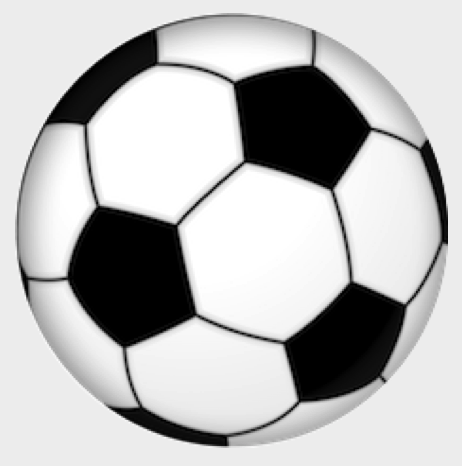
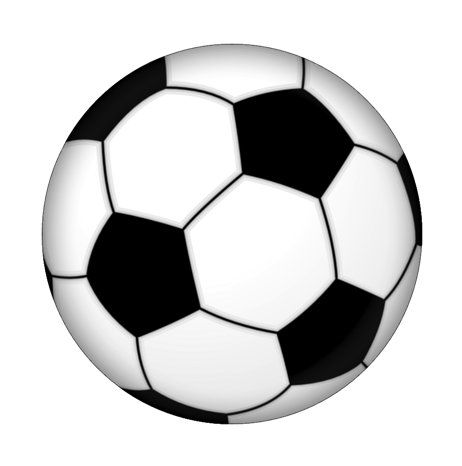
Added Klipfolio and fixed footymanager soccer ball

diff --git a/index.html b/index.html
@@ -48,7 +48,8 @@
 
                             <h2 class="header">about me</h2>
                             <hr class="light"></hr>
-                            <p>currently living in ontario, canada studying at the university of ottawa</p>
+                            <p>frontend developer</p>
+                            <p>studying at the university of ottawa</p>
                             <p>organizer of the deCODE Hackathon</p>
                             <p>member of the engineering faculty council</p>
                             <p>developing in java, web and mobile</p>
@@ -59,11 +60,20 @@
                         <h2 class="header">experience</h2>
                         <hr class="light"></hr>
                         <div id="experience-section">
+
+                            <div class="experience-three col-md-4">
+                                <h4>Klipfolio</h4>
+                                <img id="klipfolio-img" src="img/klipfolio.png" height="70"></img>
+                                <p><b><a href="http://www.klipfolio.com/">Frontend Developer (CO-OP)</a></b></p>
+                                <p>Klipfolio is a live business dashboarding startup, that allows their users to manipulate multiple forms of data to create visualizations that reflect key performance indicators (KPI).</p>
+                            </div>
+
+
                             <div class="exerience-one col-md-4">
                                 <h4>Telepin Software</h4>
                                 <img id="telepin-img" src="img/telepin-bg.png" height="170" ></img>
-                                <p><b><a href="http://www.telepin.com">CO-OP Developer</a></b></p>
-                                <p>Telepin Software is the leading provider of mobile infrastructure software, also my first co-op placement.</p>
+                                <p><b><a href="http://www.telepin.com">Mobile App Developer (CO-OP)</a></b></p>
+                                <p>Telepin Software is the leading provider of mobile infrastructure software, where I was asked to develop their first cross-platform mobile application.</p>
                             </div>
 
                             <div class="experience-two col-md-4">
@@ -71,13 +81,6 @@
                                 <img id="campustec-img" src="img/campustec.jpg" height="60" ></img>
                                 <p><b><a href="http://www.campustec.ca/">Computer Technician</a></b></p>
                                 <p>Campus Tec is the University of Ottawa's computer repair store, where I spent my first and second year fixing computers part-time.</p>
-                            </div>
-
-                            <div class="experience-three col-md-4">
-                                <h4>Esso</h4>
-                                <img id="esso-img" src="img/esso.png" height="170"></img>
-                                <p><b><a href="http://www.esso.ca/">Station Attendant</a></b></p>
-                                <p>Esso is a corporation owned gas station in Mississauga, Ontario - also where I acquired my first job.</p>
                             </div>
                         </div>
                     </div>
@@ -88,7 +91,7 @@
                         <div class="project-section">
                             <div class="project-one col-md-4">
                               <h4>deCODE Hackathon</h4>
-                              <img id="decode-img" src="img/decode.png" height="101"> </img>
+                              <img id="decode-img" src="img/deCODE.png" height="101"> </img>
                               <p><b><a href="http://www.legacycan.ca/decode">Event Organizer</a></b></p>
                               <p>deCODE is a Hackathon I am organizing held on April 1st-2nd in Ottawa, Ontario.</p>
                             </div>

diff --git a/css/style.css b/css/style.css
@@ -3,11 +3,12 @@
     height: 100%;
     text-align: center;
     border-right-style: solid;
-    border-right-width: 1px;
+    border-right-width: 3px;
+    border-right-color: #e7e7e7;
 }
 
 #right{
-    background-color: #F0F0F0;
+    background-color: #fff;
     height:100%;
     overflow-y: auto;
     margin:0 !important;
@@ -58,8 +59,9 @@
   margin-top:50px;
   margin-bottom:72px;
 }
-#esso-img{
-  margin-bottom:12px;
+#klipfolio-img{
+    margin-top: 50px;
+    margin-bottom: 64px;
 }
 
 .light{
@@ -84,6 +86,7 @@
 .info-side{
     position: relative;
     top: 35%;
+    width: 201px;
 }
 .info-page{
     overflow-x: auto;
@@ -102,6 +105,7 @@ html, body{
         border-bottom-style: solid;
         border-bottom-width: 1px;
         border-right-width: 0;
+        border-right-color: #e7e7e7;
     }
     #right{
         width: 100%;
